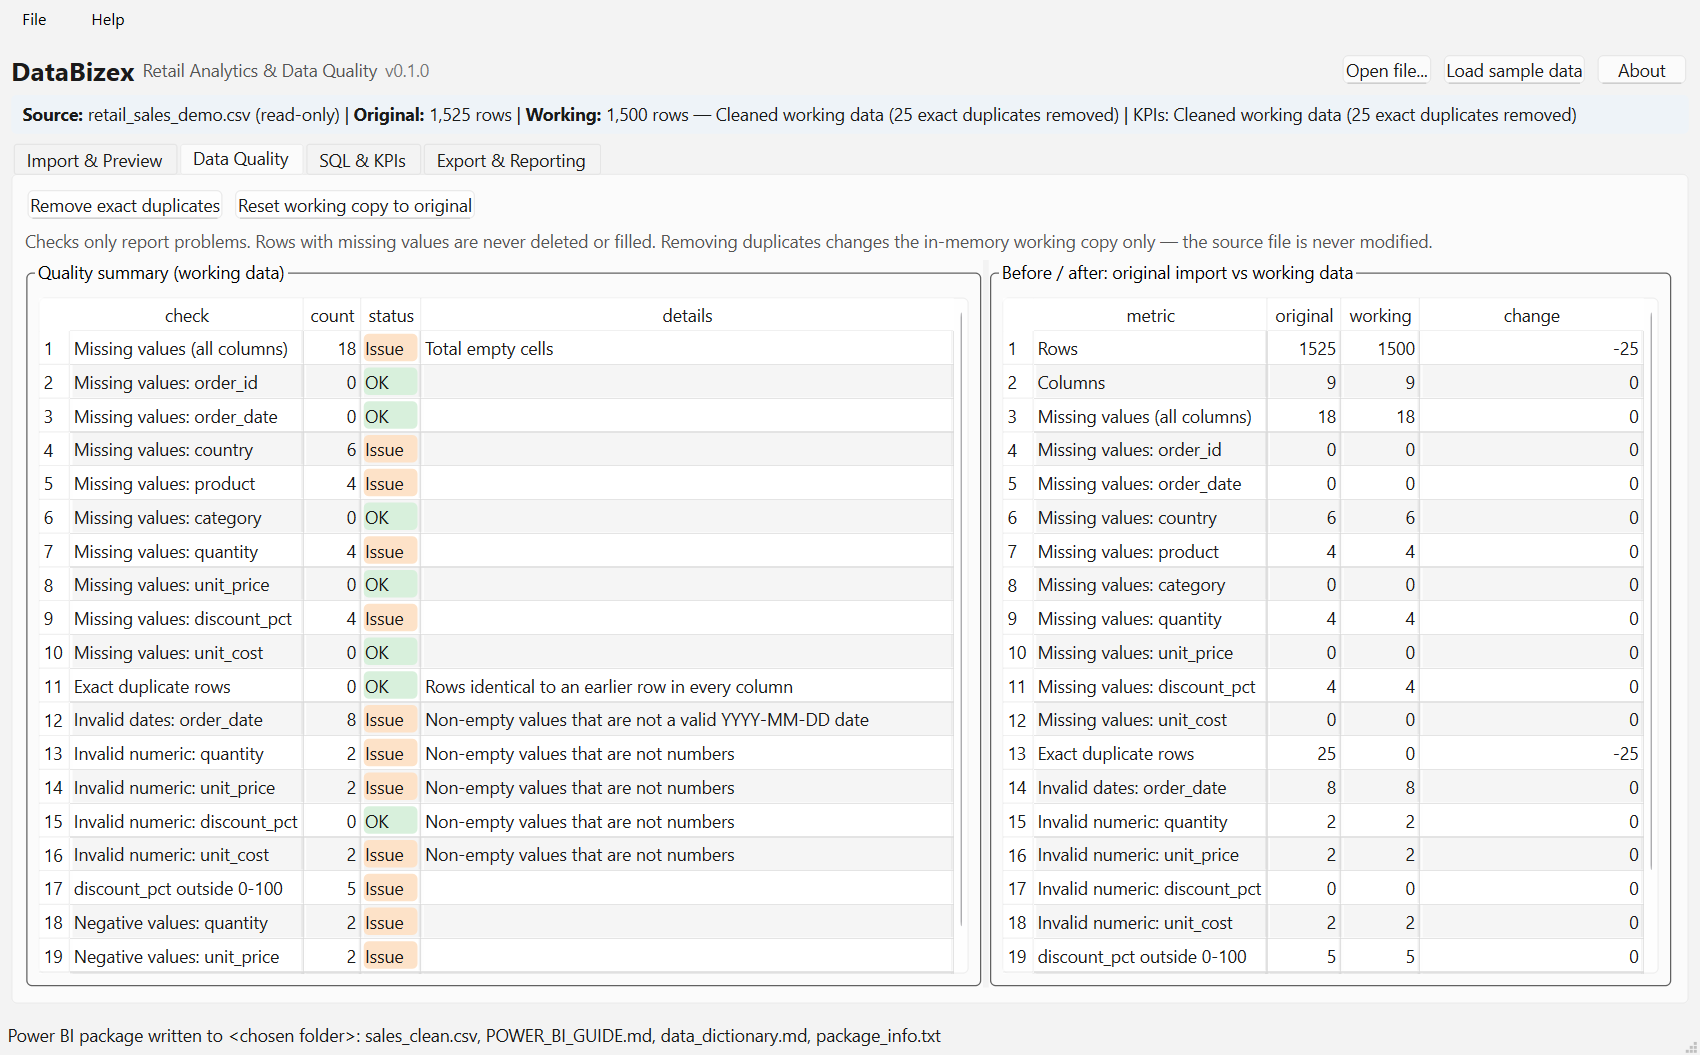
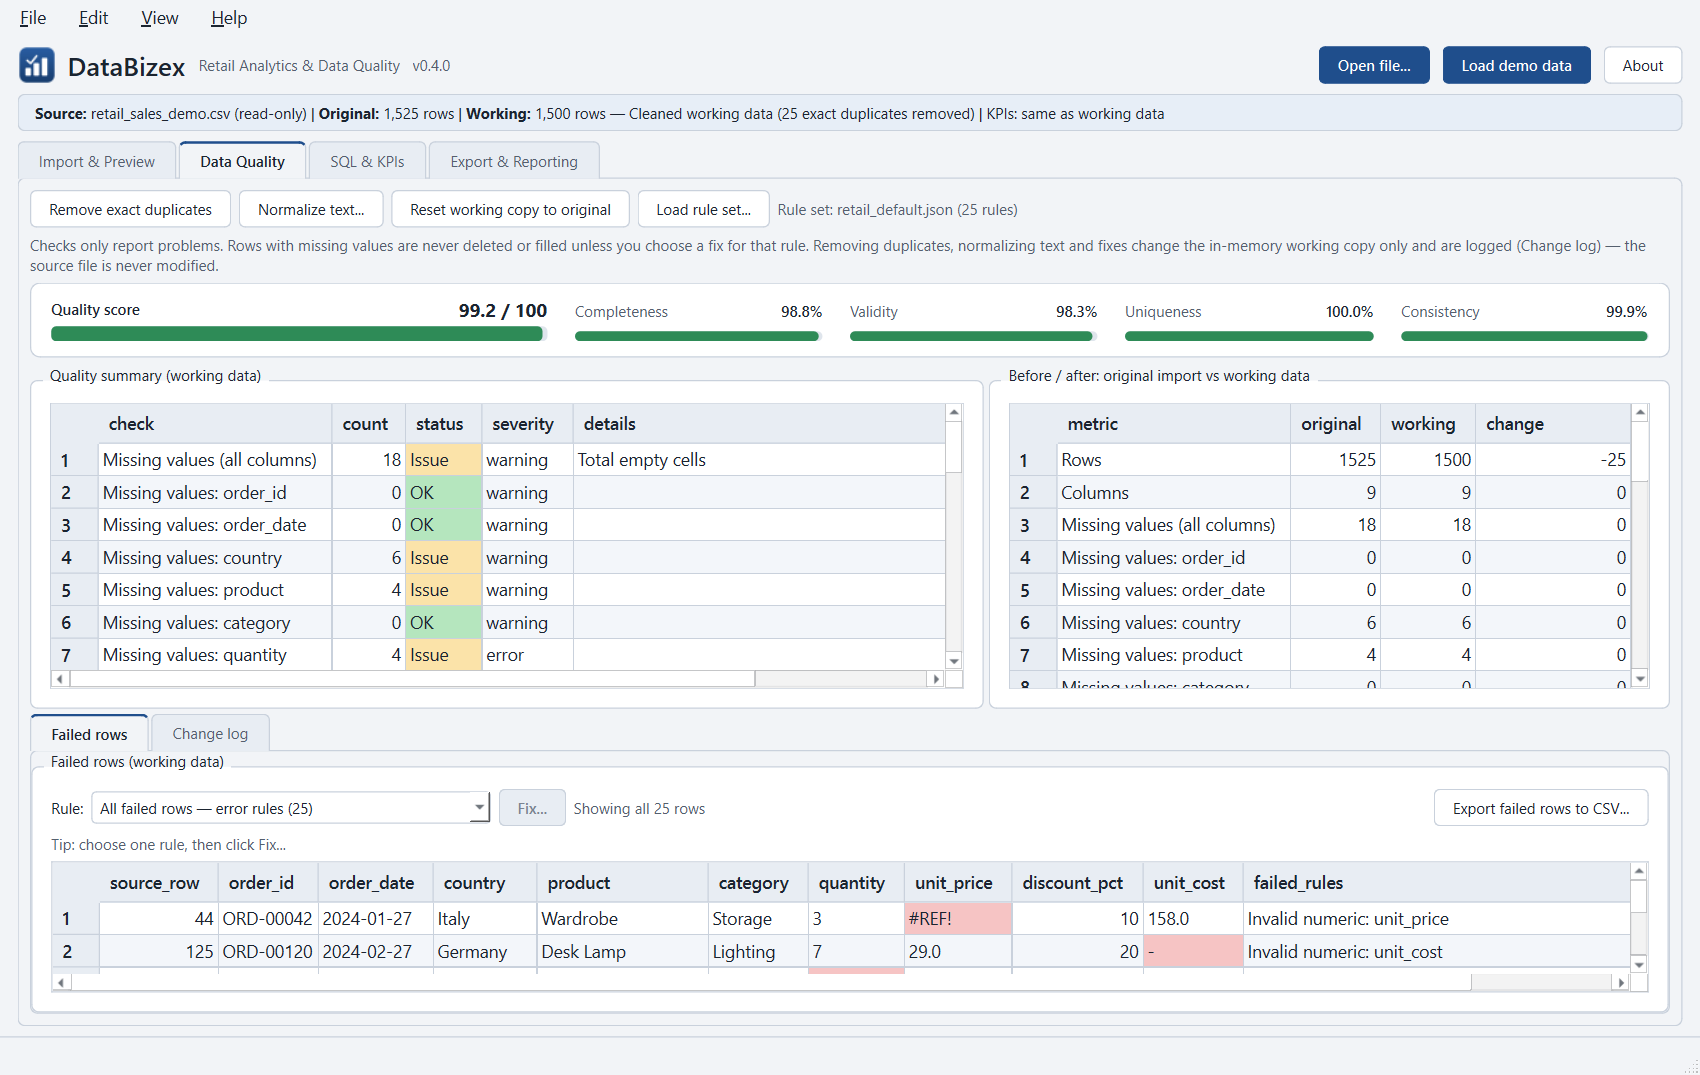
Release 0.4.0: guided fixes with change log, sample data, themes and refreshed screenshots

Changed region(s): [[0.0, 0.0, 0.9976, 1.0], [0.1247, 0.0, 0.1559, 0.0303]]

diff --git a/scripts/capture_screenshots.py b/scripts/capture_screenshots.py
@@ -1,8 +1,12 @@
 """Capture README screenshots from the real application window.
 
-Loads the bundled demo data, removes duplicates, runs the KPI queries and
-writes a Power BI package to a temporary folder, then saves one PNG per tab
-into screenshots/.
+Loads the bundled demo data, removes duplicates and runs the KPI queries, then
+saves one PNG per tab into screenshots/. Then opens the messy sales sample and
+captures the Fix dialog (Remove duplicates, with the score change in its
+preview) and the Change log view after three fixes that each raise the score.
+
+The window is rendered without appearing on screen, in the light theme, and
+the status bar is cleared before every grab.
 
 Run from the project root:
     .venv\\Scripts\\python scripts\\capture_screenshots.py
@@ -11,23 +15,47 @@ Run from the project root:
 from __future__ import annotations
 
 import sys
-import tempfile
 from pathlib import Path
 
 ROOT = Path(__file__).resolve().parent.parent
 sys.path.insert(0, str(ROOT))
 
-from app.exports.exporter import generate_powerbi_package  # noqa: E402
+from PIL import Image  # noqa: E402
+from PySide6.QtCore import Qt  # noqa: E402
+
+from app.data import fixes  # noqa: E402
 from app.main import create_application  # noqa: E402
+from app.paths import messy_sample_dir  # noqa: E402
+from app.ui import main_window  # noqa: E402
+from app.ui.fix_dialog import FixDialog  # noqa: E402
 from app.ui.main_window import MainWindow  # noqa: E402
 
 OUT = ROOT / "screenshots"
 SHOTS = ["01_import_preview.png", "02_data_quality.png", "03_sql_kpis.png", "04_export_reporting.png"]
+FIX_SHOT, LOG_SHOT = "05_fix_dialog.png", "06_change_log.png"
+# Fixes for the Change log screenshot, applied in order; each one raises the quality score.
+LOG_FIXES = [
+    ("Exact duplicate rows", fixes.FixAction.FIX_DUPLICATES, None),
+    ("Missing values: discount_pct", fixes.FixAction.FILL_CONSTANT, {"value": "0"}),
+    ("discount_pct outside 0-100", fixes.FixAction.EXCLUDE_ROWS, None),
+]
+
+
+def save(app, window, widget, name: str) -> Path:
+    """Clear the status bar, grab widget and write an optimized PNG."""
+    window.show_status("", "hint")
+    app.processEvents()
+    path = OUT / name
+    widget.grab().save(str(path))
+    with Image.open(path) as image:
+        image.convert("RGB").save(path, optimize=True)
+    return path
 
 
 def main() -> int:
     app = create_application(sys.argv, theme_mode="light")  # README screenshots use the light theme
     window = MainWindow()
+    window.setAttribute(Qt.WA_DontShowOnScreen, True)  # rendered for the grabs, never shown
     window.resize(1360, 860)
     window.show()
     app.processEvents()
@@ -36,26 +64,48 @@ def main() -> int:
         print("Sample data could not be loaded")
         return 1
     OUT.mkdir(exist_ok=True)
+    written = []
 
     # Tab 1 before cleaning, so the preview shows the original import.
     window.tabs.setCurrentIndex(0)
-    app.processEvents()
-    window.grab().save(str(OUT / SHOTS[0]))
+    written.append(save(app, window, window, SHOTS[0]))
 
     window.remove_duplicates()
     window.run_kpis()
-    with tempfile.TemporaryDirectory() as tmp:
-        written = generate_powerbi_package(window.working_df, Path(tmp), window.source_path.name,
-                                           window.data_state_text())
-        window._log_export("Power BI package written to <chosen folder>: " + ", ".join(p.name for p in written))
-
     for index, name in enumerate(SHOTS[1:], start=1):
         window.tabs.setCurrentIndex(index)
-        app.processEvents()
-        window.grab().save(str(OUT / name))
+        written.append(save(app, window, window, name))
 
-    for name in SHOTS:
-        print(OUT / name)
+    # The messy sales sample: Cancel the import and mapping dialogs (loaded as read), then fix.
+    main_window.ImportOptionsDialog.exec = lambda dialog: 0
+    main_window.ColumnMappingDialog.exec = lambda dialog: 0
+    if not window.load_path(messy_sample_dir() / "retail_messy_4_sales.xlsx"):
+        print("Messy sample could not be loaded")
+        return 1
+
+    name, action, params = LOG_FIXES[0]
+    rule = window._rules_by_check()[name]
+    dialog = FixDialog(window.working_df, rule, window.rules, int(window.row_flags[name].sum()),
+                       window.unavailable_columns, window)
+    dialog.radios[action].click()
+    dialog.update_preview()
+    dialog.setAttribute(Qt.WA_DontShowOnScreen, True)
+    dialog.resize(780, 680)
+    dialog.show()
+    written.append(save(app, window, dialog, FIX_SHOT))
+    dialog.close()
+
+    for name, action, params in LOG_FIXES:
+        rule = window._rules_by_check()[name]
+        new_df, entry = fixes.run_fix(window.working_df, rule, action, params, window.rules,
+                                      window.unavailable_columns)
+        window._apply_change(new_df, entry, "Fix applied.")
+    window.tabs.setCurrentIndex(1)
+    window.quality_views.setCurrentIndex(1)  # Change log, last entry selected
+    written.append(save(app, window, window, LOG_SHOT))
+
+    for path in written:
+        print(path)
     window.close()
     return 0
 

diff --git a/app/main.py b/app/main.py
@@ -1,8 +1,9 @@
 """DataBizex entry point.
 
     python -m app.main                      start the GUI
-    python -m app.main --smoke-test OUT     start, load the sample, run checks + KPIs,
-                                            write a JSON report to OUT and exit
+    python -m app.main --smoke-test OUT     start, load the demo data, run checks + KPIs,
+                                            check the messy sample files, write a JSON
+                                            report to OUT and exit
 """
 
 from __future__ import annotations
@@ -88,6 +89,16 @@ def run_smoke_test(window, output: Path) -> None:
         report["kpis"] = {k: (None if v != v else v) for k, v in window.kpi_headline.items()}
         report["kpi_basis"] = window.kpi_basis
         report["preview_rows_in_gui"] = window.preview_table.model_.rowCount()
+        # File > Open sample dataset: the bundled messy tables are found and readable.
+        from app.data.loader import load_file
+        from app.paths import messy_sample_dir
+        from app.ui.main_window import messy_samples
+
+        window._rebuild_sample_menu()
+        report["sample_menu_enabled"] = window.sample_menu.menuAction().isEnabled()
+        report["sample_menu_entries"] = [action.text() for action in window.sample_menu.actions()]
+        report["messy_sample_rows"] = {path.name: len(load_file(path).df)
+                                       for _label, path in messy_samples(messy_sample_dir())}
         with tempfile.TemporaryDirectory() as tmp:
             written = generate_powerbi_package(window.working_df, Path(tmp), "smoke-test", window.kpi_basis)
             report["powerbi_files"] = sorted(p.name for p in written)

diff --git a/app/ui/main_window.py b/app/ui/main_window.py
@@ -937,8 +937,9 @@ class MainWindow(QMainWindow):
         if self.normalized_columns:
             cleaning.append("text normalized in " + ", ".join(self.normalized_columns))
         fixed = ""
-        if len(self.change_log):
-            count = len(self.change_log)
+        # Duplicate removal and normalization are logged too, but already named under "cleaning".
+        count = sum(1 for entry in self.change_log.entries if entry.kind != KIND_NORMALIZATION)
+        if count:
             fixed = f" — Working copy: {count:,} fix{'es' if count != 1 else ''} applied"
         if cleaning:
             return f"Cleaned working data ({'; '.join(cleaning)}){mapped}{fixed}"
@@ -1854,7 +1855,8 @@ class MainWindow(QMainWindow):
         change = change_summary(self.original_df, df, self.rules, self._normalized_source_columns(),
                                 self.column_mapping)
         self.change_table.show_frame(change, whole_number_columns=whole_number_columns(change))
-        self.reset_btn.setEnabled(self.duplicates_removed > 0 or bool(self.normalized_columns))
+        self.reset_btn.setEnabled(self.duplicates_removed > 0 or bool(self.normalized_columns)
+                                  or len(self.change_log) > 0)
 
     def show_about(self) -> None:
         self._about_dialog().exec()

diff --git a/tests/test_fix_ui.py b/tests/test_fix_ui.py
@@ -158,3 +158,24 @@ def test_status_bar_after_custom_sql(window):
     assert not win.run_custom_sql()
     assert win.statusBar().currentMessage().startswith("Query not run:")
     assert "Running" not in win.statusBar().currentMessage()
+
+
+def test_reset_button_is_enabled_after_a_fix(window, monkeypatch):
+    win, main_window, _app, _popups = window
+    assert win.load_sample()
+    assert not win.reset_btn.isEnabled()  # nothing to reset yet
+    _accept_with(main_window, monkeypatch)
+    assert win.open_fix_dialog("Negative values: quantity")
+    assert win.reset_btn.isEnabled()
+    assert win.undo_last_fix()
+    assert not win.reset_btn.isEnabled()
+
+
+def test_state_line_counts_fixes_not_cleaning_steps(window, monkeypatch):
+    win, main_window, _app, _popups = window
+    assert win.load_sample()
+    win.remove_duplicates()  # logged, but described as cleaning
+    assert "25 exact duplicates removed" in win.data_state_text() and "fix" not in win.data_state_text()
+    _accept_with(main_window, monkeypatch)
+    assert win.open_fix_dialog("Negative values: quantity")
+    assert win.data_state_text().endswith("Working copy: 1 fix applied")

diff --git a/tests/test_version.py b/tests/test_version.py
@@ -1,0 +1,34 @@
+"""The version lives in app/__init__.py only; everything else reads it from there."""
+
+import os
+import re
+
+from app import __version__
+from app.paths import resource_path
+
+
+def test_version_is_semantic():
+    assert re.fullmatch(r"\d+\.\d+\.\d+", __version__)
+
+
+def test_changelog_top_release_matches_the_version():
+    text = resource_path("CHANGELOG.md").read_text(encoding="utf-8")
+    releases = re.findall(r"^## \[(\d+\.\d+\.\d+)\] - \d{4}-\d{2}-\d{2}$", text, flags=re.MULTILINE)
+    assert releases and releases[0] == __version__
+    assert text.index("## [Unreleased]") < text.index(f"## [{__version__}]")
+
+
+def test_window_shows_the_version():
+    os.environ.setdefault("QT_QPA_PLATFORM", "offscreen")
+    from PySide6.QtWidgets import QApplication
+
+    import app.ui.main_window as main_window
+
+    app = QApplication.instance() or QApplication([])
+    win = main_window.MainWindow()
+    try:
+        assert win.version_label.text() == f"v{__version__}"
+        assert f"v{__version__}" in main_window.ABOUT_TEXT
+    finally:
+        win.close()
+        app.processEvents()

diff --git a/app/__init__.py b/app/__init__.py
@@ -1,4 +1,4 @@
 """DataBizex - retail analytics and data quality desktop tool."""
 
 APP_NAME = "DataBizex"
-__version__ = "0.3.0"
+__version__ = "0.4.0"

diff --git a/CHANGELOG.md b/CHANGELOG.md
@@ -7,6 +7,80 @@ and this project adheres to [Semantic Versioning](https://semver.org/spec/v2.0.0
 
 ## [Unreleased]
 
+## [0.4.0] - 2026-10-15
+
+### Added
+
+- **Guided fixes.** Select a failed rule on the Data Quality tab and choose **Fix...** (or
+  right-click the rule). The dialog explains the problem and offers the actions that fit the
+  rule: exclude rows, set missing, map values, fill a constant, trim and standardize case, or
+  remove duplicates keeping the first occurrence. A preview shows up to 20 rows before and
+  after, the number of rows and cells that will change and the quality score before and after,
+  all computed on a copy; nothing changes until **Apply**. Outlier rules stay warnings only.
+- **Change log with undo.** Every fix, as well as **Remove exact duplicates** and **Normalize
+  text...**, is recorded with its rule, action, parameters, counts, affected source rows and
+  sample rows, and the quality score and KPI-valid rows before and after. **Edit > Undo last
+  fix** (Ctrl+Z) restores the working copy exactly for the last 10 fixes. **Reset working copy
+  to original** asks before discarding logged fixes. The log can be exported as a Markdown
+  audit report or CSV, and is added to the Excel export (a "Change log" sheet) and the Power BI
+  package (`change_log.csv`, `change_log.md`). It lives in memory for the session.
+- **Month-over-month and year-over-year growth** in the monthly revenue query (`MoM %`,
+  `YoY %`). Year-over-year compares each month with the same calendar month a year earlier,
+  so missing months are never compared with the wrong month.
+- **Pareto analysis of products:** a "Top products (Pareto)" query with each product's share
+  and cumulative share of net revenue, the smallest set of top products reaching 80%, the line
+  "N of M products make 80% of net revenue." and a Pareto chart with an 80% guide.
+- **Read-only custom SQL editor** on the SQL & KPIs tab: one `SELECT` or `WITH` query on table
+  `sales`, run with **Run** or Ctrl+Enter. A guard rejects anything that could change data
+  (more than one statement, `INSERT`, `DELETE`, `DROP`, `ATTACH`, `COPY`, `SET` and similar) with
+  a plain-language reason. Up to 1,000 rows are shown with the full row count, and **Export
+  result to CSV...** writes every row.
+- **Light and dark themes** under **View > Theme** (Light, Dark, or System, the default, which
+  follows Windows), applied live including the charts and remembered between sessions.
+  Themed quality score bars, KPI cards and tables, readable in both modes.
+- **Application icon** for the window, the taskbar and the executable.
+- **Layout memory:** the confirmed import settings and column mapping are remembered per file
+  layout (the exact column names) and pre-fill the dialogs the next time a file with the same
+  columns is opened.
+- **File > Open Recent** with the last 10 files; a file that no longer exists is removed from
+  the list when clicked.
+- **Failed-cell highlighting:** in the failed rows table, the cells that caused each failure
+  have a light red background.
+- **Messy multi-table sample data** in `sample_data/messy/`: five related synthetic tables
+  (stores, customers, products, sales as `.xlsx` and `.csv`, returns) with planted problems and
+  an answer key (`manifest.json`, `README.md`). Open them with **File > Open sample dataset**,
+  or click **Try messy sample data** on the empty Import & Preview tab. They load through the
+  normal import pipeline.
+- `scripts/make_sample_data.py`: the seeded generator for this sample, with options for table
+  sizes, file names, xlsx or CSV, and a large sales CSV for performance tests (git-ignored).
+- **Fix button hints:** when **Fix...** is disabled, its tooltip says why, and a short tip under
+  the rule list explains how to start.
+- Continuous integration: the test suite runs on every push (GitHub Actions).
+
+### Changed
+
+- **SQL & KPIs tab layout:** separate Predefined queries and Custom SQL views, so each result
+  table gets the full height, charts in a scrolling column, and Pareto labels for the top 10
+  products only. The window has a minimum size of 1100 x 700.
+- **Whole numbers** in float columns (e.g. quantities with empty cells) are shown as `6`
+  instead of `6.0` in the preview, failed rows and before/after tables. The data is unchanged.
+- **File loading errors** are explained in plain language, with the technical detail on a
+  separate line: a row with a different number of columns than the header names the line, a
+  file that cannot be read as text suggests re-saving it from Excel, and an Excel file that
+  cannot be opened may be corrupted, password-protected or not a real `.xlsx` file.
+- **Clearer sample data labels:** the header button and File menu item are now **Load demo
+  data** (the single-table `retail_sales_demo.csv`); tooltips explain the difference from the
+  messy sample tables.
+- Bundled sample files are not added to the recent files list.
+
+### Fixed
+
+- **Status bar messages clear themselves.** "Working" messages such as "Looking for text
+  variants..." or "Running your SQL query in DuckDB..." stayed on screen after the operation
+  ended, even while other dialogs were open. They are now always removed, whether the
+  operation succeeded, failed, was cancelled or found nothing to do. Results clear after 9 s
+  and errors after 15 s, as one line without technical tracebacks.
+
 ## [0.3.0] - 2026-10-11
 
 ### Added

diff --git a/README.md b/README.md
@@ -12,7 +12,7 @@ https://github.com/user-attachments/assets/54df7143-94ee-4f4d-8513-8fd6c83d0869
 
 ## Download
 
-Get `DataBizex.exe` from the [latest release](https://github.com/DataBizex/databizex-retail-analytics/releases/latest). No installation: download and run.
+Get `DataBizex.exe` (version 0.4.0, one file, Windows 10 or 11) from the [latest release](https://github.com/DataBizex/databizex-retail-analytics/releases/latest). No installation: download and run. What changed is listed in [CHANGELOG.md](CHANGELOG.md).
 
 On first launch, Windows SmartScreen may show "Windows protected your PC". This appears because the executable is not code-signed (a paid certificate), not because anything is wrong. Click **More info**, then **Run anyway**. You can also build the app yourself from this repository and compare.
 
@@ -194,6 +194,17 @@ Captured from the running app with `scripts/capture_screenshots.py`.
 |---|---|
 | ![SQL & KPIs](screenshots/03_sql_kpis.png) | ![Export & Reporting](screenshots/04_export_reporting.png) |
 
+| Fix dialog: removing duplicates raises the score from 96.2 to 96.6 | Change log after three fixes: 96.2 -> 96.6 -> 96.9 -> 97.2 |
+|---|---|
+| ![Fix dialog](screenshots/05_fix_dialog.png) | ![Change log](screenshots/06_change_log.png) |
+
+The first four use the demo data; the last two use the messy sales sample
+(**File > Open sample dataset**). The Fix dialog previews removing the 30 exact duplicate
+rows, each with the row that is kept, and the quality score before and after (96.2 -> 96.6).
+The change log then shows three fixes, each raising the score: duplicates removed
+(96.2 -> 96.6), missing `discount_pct` filled with 0 (96.6 -> 96.9) and the 30 rows with a
+discount outside 0-100 excluded (96.9 -> 97.2), with the last entry's before/after rows.
+
 ## Technology stack
 
 | Purpose | Tool |
@@ -308,7 +319,7 @@ Logs are written to `%LOCALAPPDATA%\DataBizex\databizex.log`.
 .venv\Scripts\python -m pytest
 ```
 
-The suite has 382 tests, using small fixtures with hand-checked results. They
+The suite has 387 tests, using small fixtures with hand-checked results. They
 cover loading valid, empty, header-only, headerless, unsupported and corrupt files;
 regional number and date detection and conversion; English, German, French and Dutch
 header guessing; remembered file layouts; source line numbers; profiling,
@@ -322,10 +333,10 @@ bundled sample file and the default rules against its answer key; text normaliza
 KPI values, DuckDB aggregations, month-over-month, year-over-year and Pareto results;
 the custom SQL guard and editor; status bar messages (working messages always cleared)
 and the Fix button hints; the SQL & KPIs layout; the recent files list; the light and
-dark themes (complete palettes, text contrast, settings and the app icon); and the CSV,
-Excel and Power BI exports. Thirty-two tests use Qt's offscreen platform (thirty drive
-the main window or the Fix dialog, one the mapping dialog, one the table model), so no
-screen is needed.
+dark themes (complete palettes, text contrast, settings and the app icon); the version
+(one source, matching the changelog); and the CSV, Excel and Power BI exports.
+Thirty-five tests use Qt's offscreen platform (thirty-three drive the main window or the
+Fix dialog, one the mapping dialog, one the table model), so no screen is needed.
 
 ## Build the executable
 
@@ -335,7 +346,8 @@ build_windows.bat
 
 The script creates or reuses `.venv`, installs the requirements, runs the
 tests (and stops if any fail), then runs PyInstaller (`--onedir --windowed`)
-with `sample_data/`, `powerbi/` and `rules/` bundled. The result is
+with the app icon, `assets/`, the sample data (the demo files and `sample_data/messy/`),
+`powerbi/` and `rules/` bundled. The result is
 `dist\DataBizex\DataBizex.exe`. Copy the whole `dist\DataBizex` folder to
 share the app.
 
@@ -357,8 +369,9 @@ To check a build without clicking through the app:
 dist\DataBizex\DataBizex.exe --smoke-test %TEMP%\databizex_smoke.json
 ```
 
-This opens the window, loads the sample, removes duplicates, runs the KPIs,
-writes a Power BI package and an Excel file to a temporary folder, and
+This opens the window, loads the demo data, removes duplicates, runs the KPIs,
+writes a Power BI package and an Excel file to a temporary folder, checks that
+**File > Open sample dataset** finds and reads every messy sample file, and
 writes the results as JSON.
 
 ## Sample data
